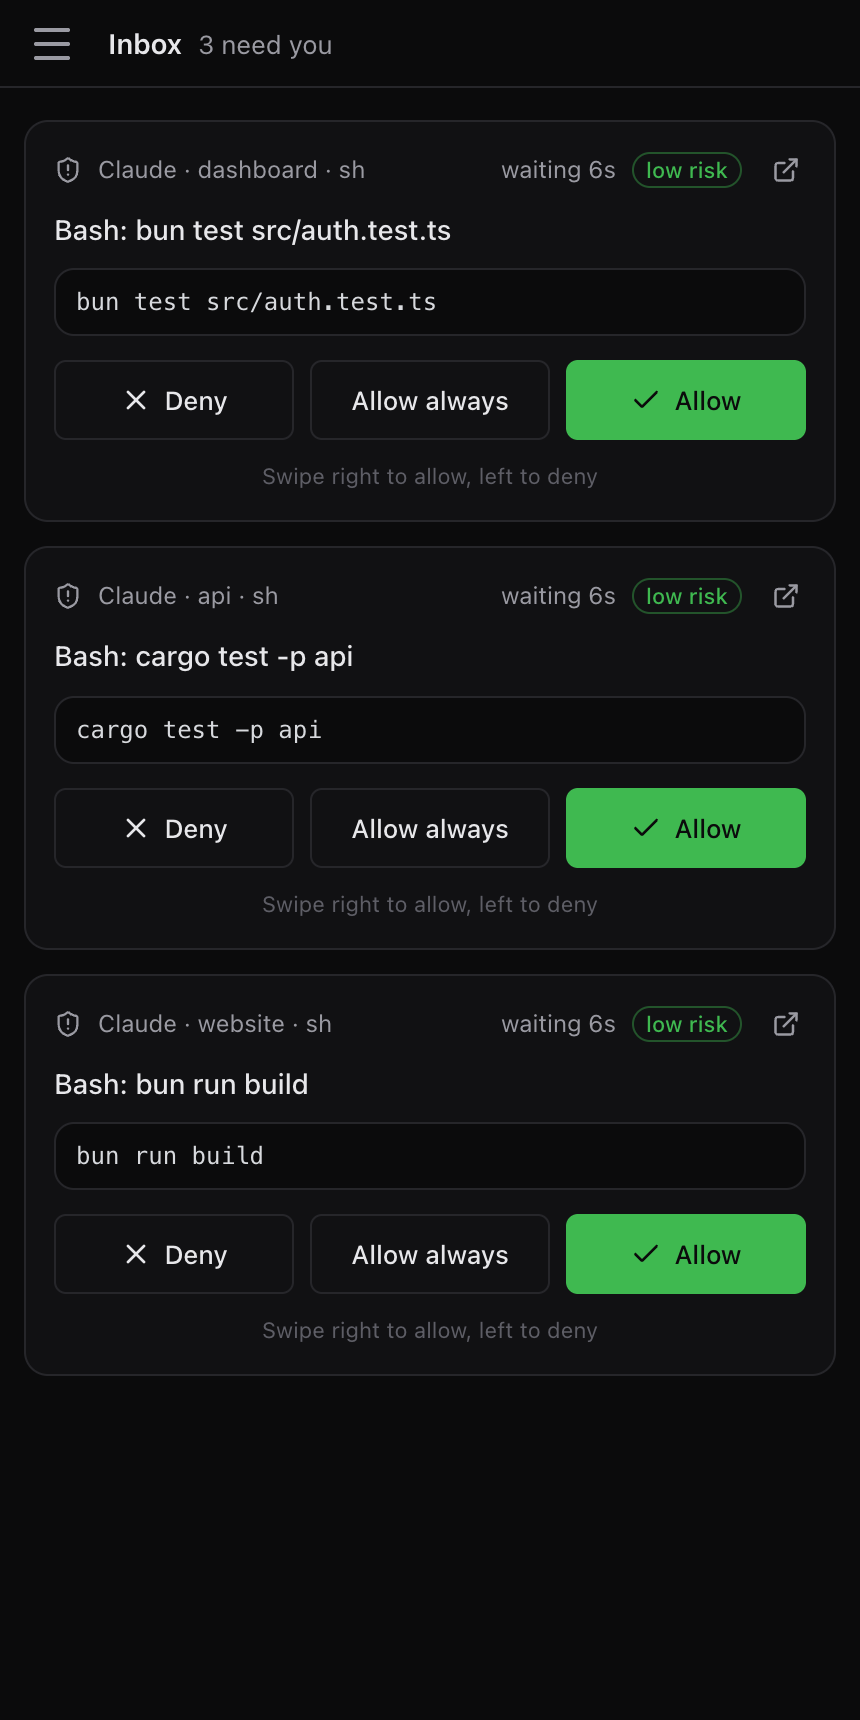
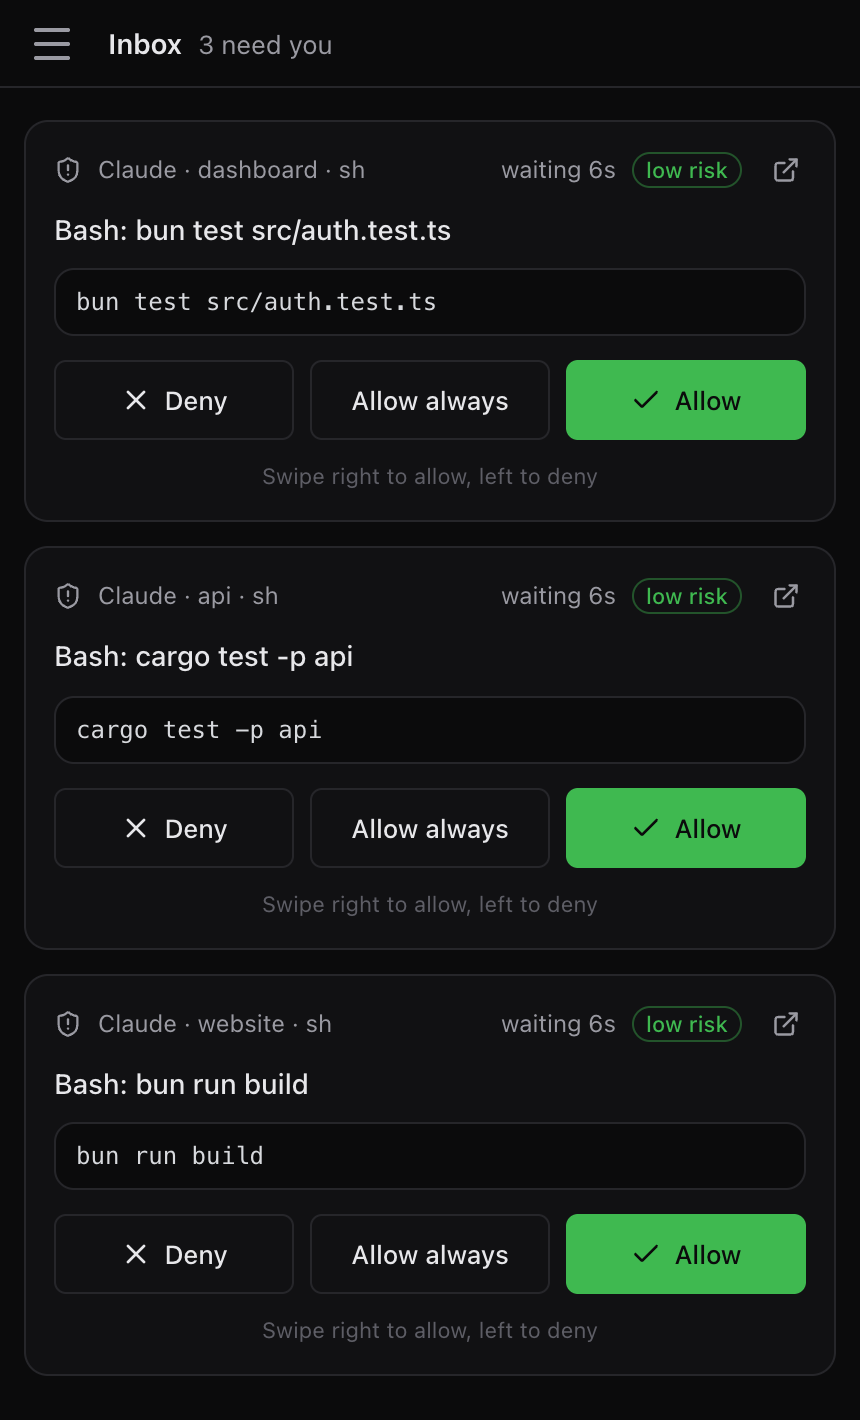
Docs: apply review (worktree isolation, task tracking, pairing keys, collision action, wrapper manifest, doctor scope)

diff --git a/web/apps/site/scripts/capture-docs.ts b/web/apps/site/scripts/capture-docs.ts
@@ -112,7 +112,7 @@ class Clip {
 
 function html(ansi: string, caption: string) {
   // The sidebar header names the machine; show a neutral name of the same width.
-  ansi = ansi.replace(/\/tmp\/vkdoc-\w+\/agents\//g, m => '/usr/local/bin/'.padEnd(m.length, ' '))
+  ansi = ansi.replace(/\/tmp\/vkdoc-\w+\/agents\/(\w+)/g, (m, agent: string) => `/usr/local/bin/${agent}`.padEnd(m.length, ' '))
   ansi = ansi.replace(/vibeke · (\S+)/g, (m, name: string) => 'vibeke · ' + 'laptop'.padEnd(name.length, ' '))
   const lines = parseAnsi(ansi).slice(0, rows)
   const body = lines.map(line => '<div>' + (line.map(({ text, style }) => {

diff --git a/docs/site/src/parallel-agents.md b/docs/site/src/parallel-agents.md
@@ -4,7 +4,7 @@ This guide shows how to run several agents on one repository, keep their work ap
 
 ## Give each agent its own task
 
-A **task** is the safest way to run parallel agents. Each task gets its own git worktree, branch, and port block. Agents cannot overwrite each other's files.
+A **task** is the safest way to run parallel agents. Each task gets its own git worktree, branch, and port block. Agents that stay in their own worktree do not change each other's files. A worktree is not a security boundary. An agent at the host execution level can still write anywhere your user can. Use a [sandbox execution level](concepts/sandboxes.md) when you need a real boundary.
 
 1. Press **Ctrl+B**, then **Shift+K** to open **New task (git worktree)**. You can also run this command in a pane:
 
@@ -25,7 +25,7 @@ You can also start `claude` and `codex` in panes of the same directory. Vibeke t
 - The sidebar shows one line under the workspace, for example "claude and codex both edited `src/auth.ts`".
 - The collision view lists every collision, with pause, tell, fresh task, and ignore actions. It has no default key. Click the sidebar line, or choose **collisions** in the command palette (**Ctrl+B**, then **:**).
 
-To avoid the warning, move one agent into its own task. In the collision view, choose **Start a fresh task from here**.
+To avoid more collisions, give one of the agents its own task. In the collision view, **Start a fresh task from here** creates a new worktree from the current commit. It starts a new agent there with a summary of the work. The original agents keep running, and their changes stay in the shared checkout. Pause or stop one of them yourself.
 
 You can also tell Vibeke which part of the checkout a run owns:
 

diff --git a/docs/site/src/first-task.md b/docs/site/src/first-task.md
@@ -30,7 +30,7 @@ If you did not use `--agent`, run your agent command in the shell pane of the ne
 claude
 ```
 
-Give the agent its work. The agent edits files only in the task worktree. Your main checkout stays unchanged.
+Give the agent its work. The agent works in the task worktree, so your main checkout keeps its state. A worktree is not a security boundary: at the host execution level, the agent can still write anywhere your user can. See [execution levels](concepts/sandboxes.md).
 
 ## 3. Watch its state
 
@@ -49,6 +49,8 @@ The answer goes to the agent through its own interface. See [agents and interact
 ## 5. Review the result
 
 Open the task details. Press `prefix` then `g` and choose the task, or run **Task details for this agent** from the palette in the agent pane.
+
+If Vibeke says that the agent is not tracked, run **Track this work (task)** from the palette in the agent pane first. This links the agent run to the task.
 
 The view shows the requirements, the commands the agent ran, the checks and the review state. In this view:
 

diff --git a/docs/site/src/agents/claude-code.md b/docs/site/src/agents/claude-code.md
@@ -49,7 +49,7 @@ vibeke integration capabilities claude
 - `status` says `installed`, `partial` or `not installed`. For a partial install it lists the missing events.
 - `doctor` finds the `claude` program, prints its version, and compares it with the validated range. It also shows the capabilities that apply.
 - `capabilities` prints the same capability list for your version.
-- Run `doctor` inside a Vibeke pane to also confirm that hooks reach the server.
+- These checks are local. To confirm that hooks reach the server, start `claude` in a Vibeke pane and check that the sidebar shows its state.
 
 A Claude Code version outside the validated range gets `observe` and keystroke answers only. Vibeke still shows state. It does not send native answers until the version is validated.
 

diff --git a/docs/site/src/phone-quickstart.md b/docs/site/src/phone-quickstart.md
@@ -8,7 +8,9 @@ You need a host with a running Vibeke session. See the [quickstart](quickstart.m
 
 Choose one way.
 
-In the terminal interface, press `prefix` then `alt+d` to open **Connections**. You can also run **Pair a phone** from the command palette. Choose the access level and press Enter. A QR code appears.
+In the terminal interface, run **Pair a phone** from the command palette (`prefix` then `:`). Choose the access level and press Enter. A QR code appears.
+
+You can also press `prefix` then `alt+d` to open **Connections**. Switch to the **Devices** tab with `tab`, then press `n` to start pairing.
 
 Or run this in a shell on the host:
 

diff --git a/docs/site/src/agents/other.md b/docs/site/src/agents/other.md
@@ -39,6 +39,7 @@ argv_regex = '(^|/)my-pi( |$)'
 
 [launch]
 argv = ["my-pi"]
+argv_with_session = ["my-pi", "--session-id", "{session_id}"]
 
 [resume]
 argv = ["my-pi", "--session", "{resume_id}"]
